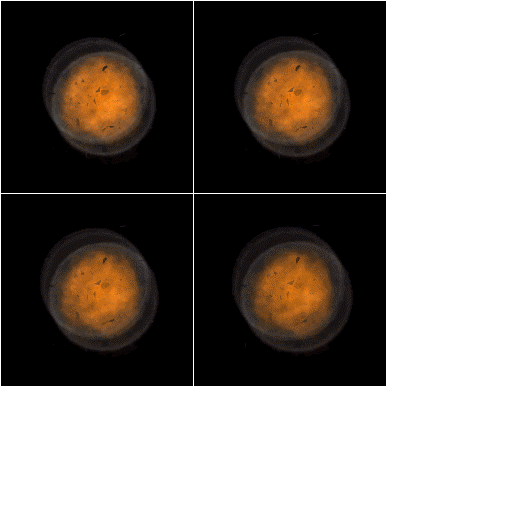
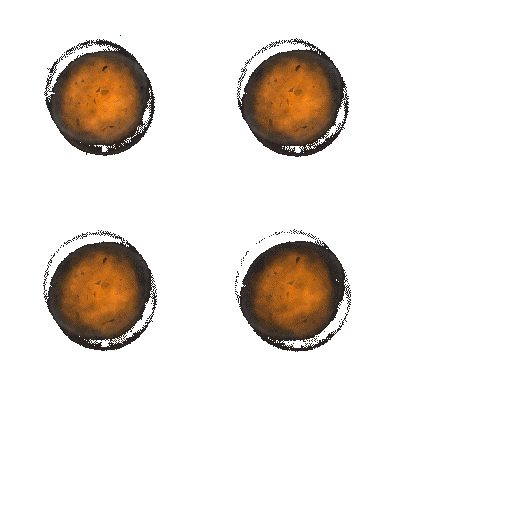
force png32

diff --git a/fixImages.py b/fixImages.py
@@ -7,7 +7,7 @@ def process(imgs, dirname, fnames):
 		hits = [os.path.join(dirname, fname) for fname in fnames if fname.startswith(img)]
 		for fpath in hits:
 			print ' - converting', fpath
-			call('convert -transparent black -fuzz 10%% %s %s'%(fpath, fpath), shell=True)
+			call('convert -transparent black -fuzz 10%% %s png32:%s'%(fpath, fpath), shell=True)
 
 def mono(nothing, dirname, fnames):
 	for fname in [f for f in fnames if f.endswith('png')]:
